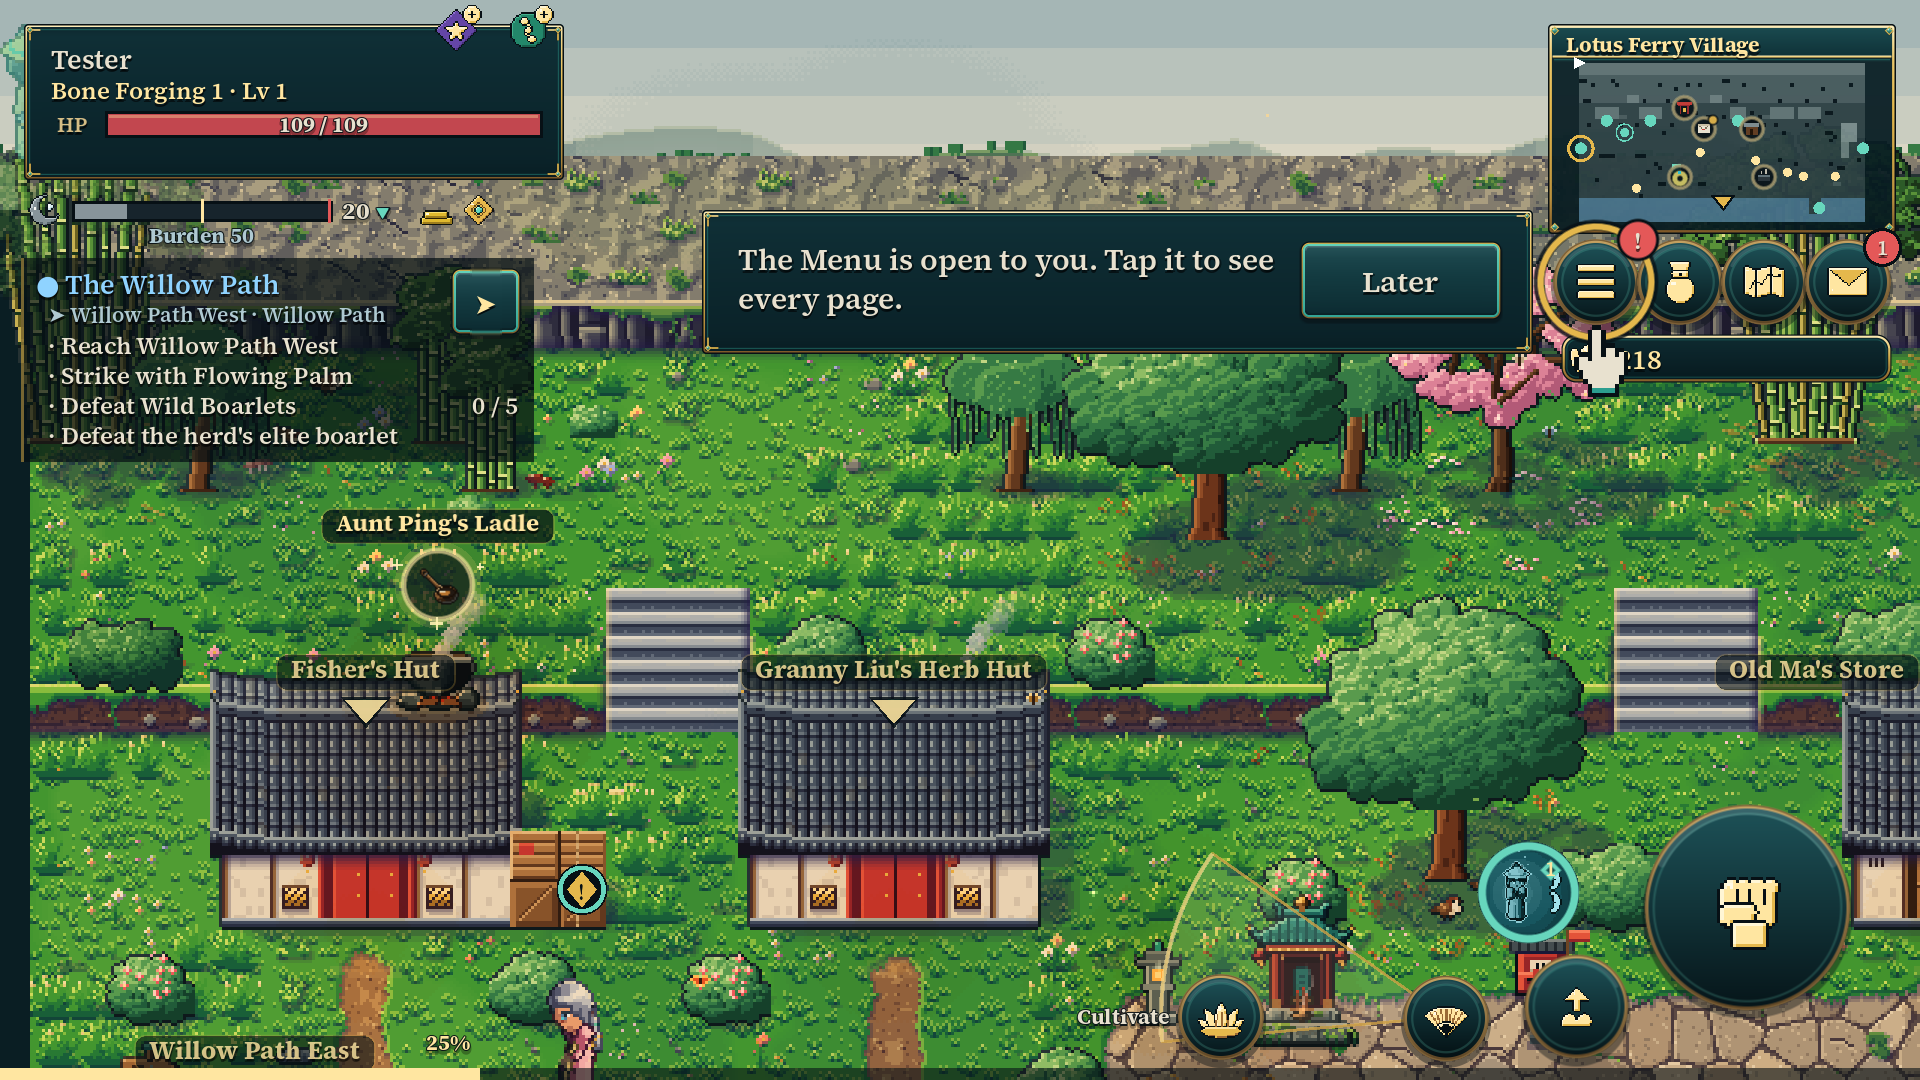
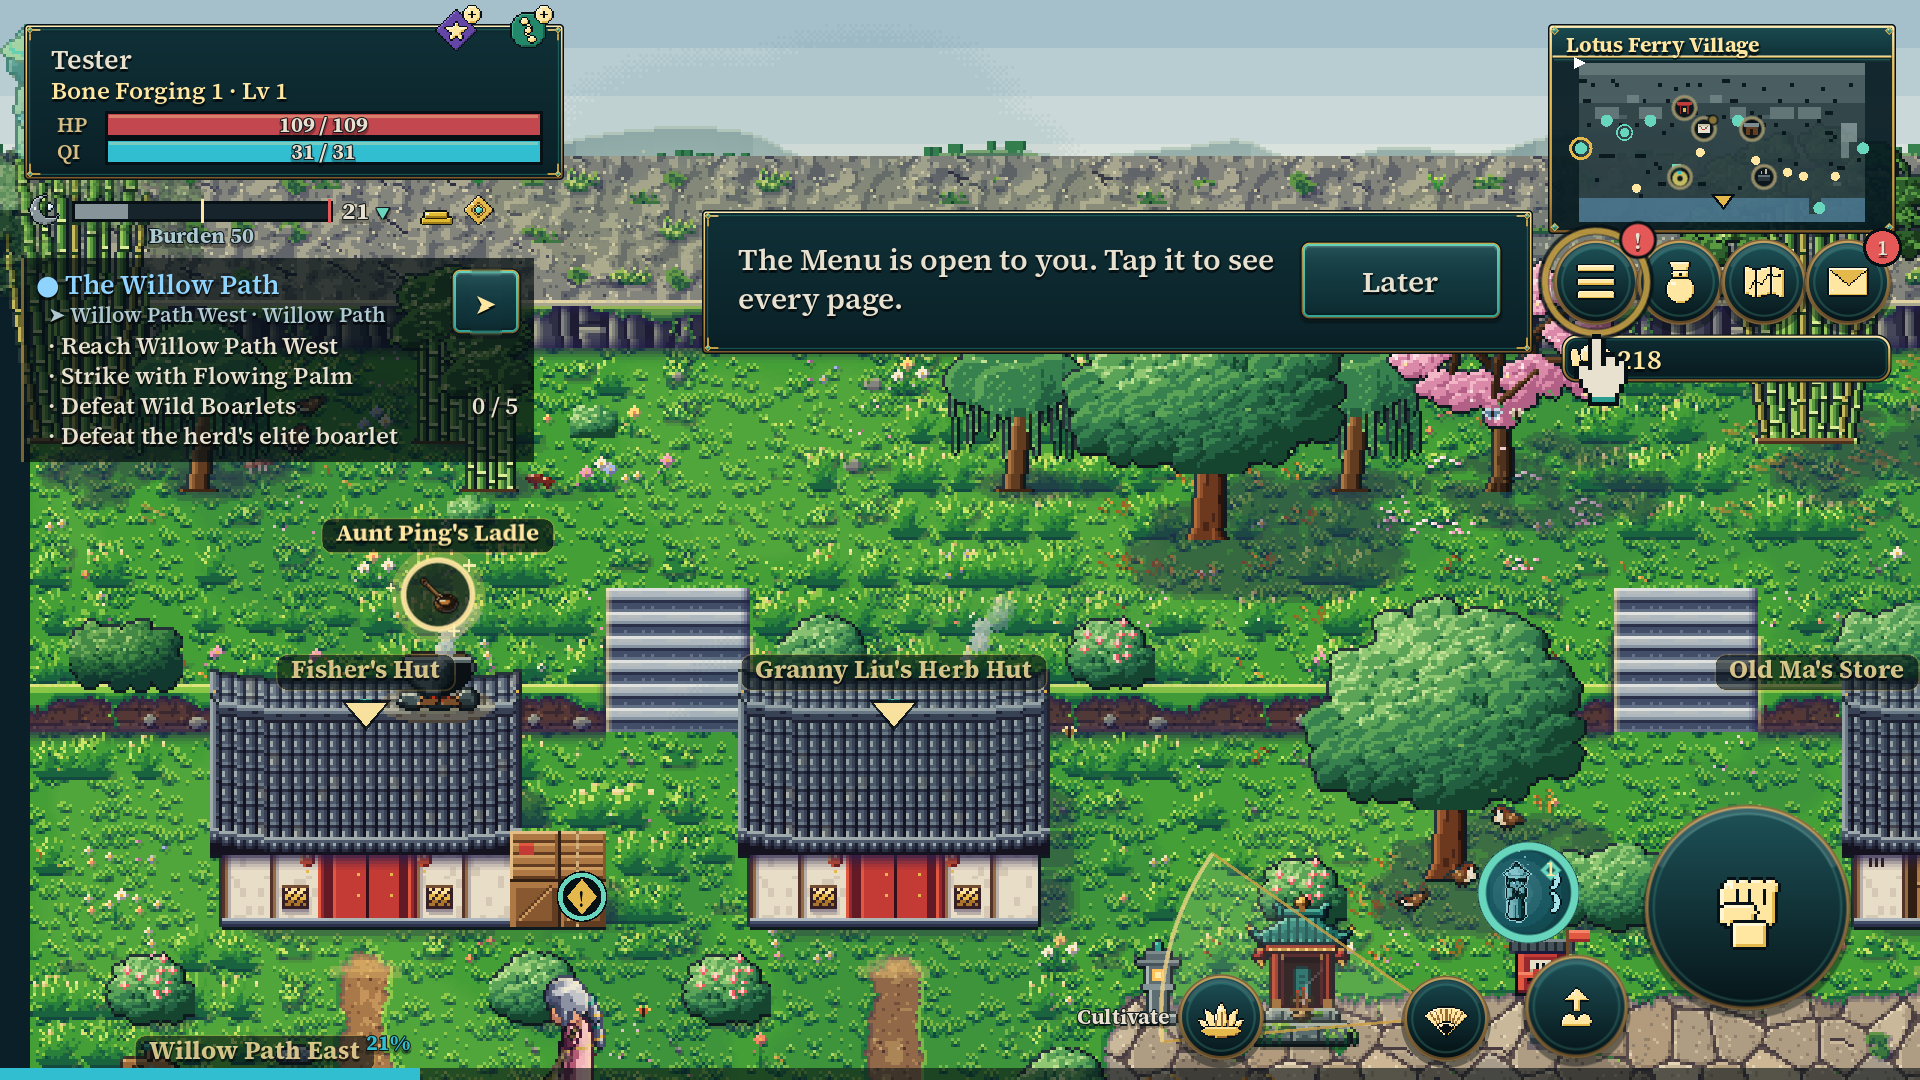
Tutorials note: the phone shots after the merge, the Qi tour on its bar, top-down checkpoints for the sweep
Claude-Session: https://claude.ai/code/session_01M721JCQMMbc2qs2YMLxRch

diff --git a/JadeRiver/docs/redesign/tutorials.md b/JadeRiver/docs/redesign/tutorials.md
@@ -281,9 +281,11 @@ laggy, sometimes when clicking done or skip it does nothing and doesn't close, a
 **How it was played.** `tools/dev/tutorial_play.tscn` plays the prototype's QA walk (`tools/dev/prototype_qa.gd`) as a
 player: from the title and a new character through the Prologue, the fair and the sect into chapter 2. It also plays
 from checkpoints of the story walk:
-- `tests/prologue_run.gd` keeps "Crab Trouble done" and "The River Token", and the QA walk has a `p_boat` step.
+- `tests/prologue_run.gd` keeps "Crab Trouble done" and "The River Token", and the QA walk has a `p_boat` step. For a
+  top-down character, keep them from `tests/topdown_tutorial.tscn -- "--keep=Crab Trouble done,The River Token"`
+  (its "The River Token" is kept again once the step is done, at Bone Forging 1).
 - `--only=sweep` plays every lesson a kept game has queued. At the River Token there were thirteen, from the Menu's to
-  the Codex's. It then opens each page of the Menu once.
+  the Codex's (with the Qi pool at Bone Forging 1, its tour is among them). It then opens each page of the Menu once.
 
 Every card the coach shows is answered by a finger through the phone's input path: a touch at the window's pixels
 (`Input.parse_input_event`), which the engine also turns into a mouse click, as on Android. The walk was played at
@@ -371,3 +373,4 @@ also checks that the lookups are made once and that a still card is not drawn ag
 - `phone_guide.png` and `phone_tour.png`: the Menu's guide and a page's tour at a 20:9 phone's 2400×1080. The canvas is
   scaled 1.5 between its bars.
 - `phone_tall_anchor.png`: the Cultivation stair's step, its card tight over the stair.
+- `qi_tour_on_its_bar.png`: the Qi pool's tour at Bone Forging 1, its ring on the Qi bar.
